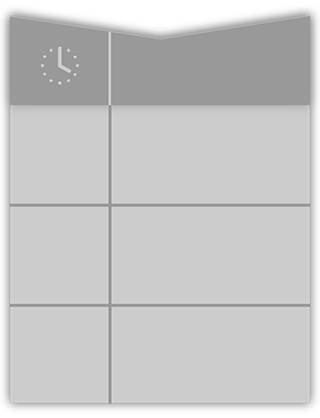
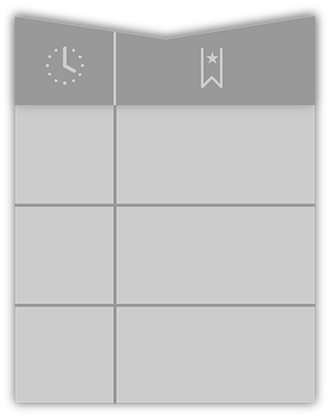
Animations on upper element

diff --git a/javafx/src/main/java/de/saxsys/projectiler/ProjectilerController.java b/javafx/src/main/java/de/saxsys/projectiler/ProjectilerController.java
@@ -3,13 +3,23 @@ package de.saxsys.projectiler;
 import java.net.URL;
 import java.util.ResourceBundle;
 
+import javafx.animation.Animation.Status;
+import javafx.animation.FadeTransitionBuilder;
+import javafx.animation.TranslateTransition;
+import javafx.animation.TranslateTransitionBuilder;
+import javafx.beans.value.ChangeListener;
+import javafx.beans.value.ObservableValue;
+import javafx.concurrent.WorkerStateEvent;
 import javafx.event.EventHandler;
 import javafx.fxml.FXML;
 import javafx.scene.control.Label;
 import javafx.scene.image.ImageView;
 import javafx.scene.input.MouseEvent;
+import javafx.util.Duration;
 
 public class ProjectilerController {
+
+    private static final int TRESHOLD = 60;
 
     @FXML
     private ResourceBundle resources;
@@ -26,20 +36,56 @@ public class ProjectilerController {
     @FXML
     private Label timeLabel;
 
+    private TranslateTransition transition;
+
     @FXML
     void initialize() {
         assert cardImage != null : "fx:id=\"cardImage\" was not injected: check your FXML file 'Projectiler.fxml'.";
         assert timeImage != null : "fx:id=\"timeImage\" was not injected: check your FXML file 'Projectiler.fxml'.";
         assert timeLabel != null : "fx:id=\"timeLabel\" was not injected: check your FXML file 'Projectiler.fxml'.";
+        transition =
+                TranslateTransitionBuilder.create().node(cardImage).rate(1.5).toY(cardImage.getLayoutY() + 120)
+                        .autoReverse(true).cycleCount(2).build();
+        createListeners();
+    }
 
+    private void createListeners() {
         cardImage.setOnMouseClicked(new EventHandler<MouseEvent>() {
 
             @Override
             public void handle(final MouseEvent arg0) {
-                new Thread(new ProjectilerTask()).start();
+                if (!(transition.getStatus() == Status.RUNNING)) {
+
+                    transition.currentTimeProperty().addListener(new ChangeListener<Duration>() {
+                        @Override
+                        public void changed(final ObservableValue<? extends Duration> arg0, final Duration arg1,
+                                final Duration arg2) {
+                            if (arg2.greaterThanOrEqualTo(transition.getTotalDuration().divide(2))) {
+                                transition.pause();
+                                transition.currentTimeProperty().removeListener(this);
+                                FadeTransitionBuilder.create().node(cardImage.getScene().getRoot()).toValue(0.8)
+                                        .build().play();
+                                cardImage.getScene().getRoot().setMouseTransparent(true);
+                            }
+                        }
+                    });
+                }
+                callProjectile();
+                transition.play();
+            }
+
+            private void callProjectile() {
+                final ProjectilerTask projectilerTask = new ProjectilerTask();
+                projectilerTask.setOnSucceeded(new EventHandler<WorkerStateEvent>() {
+                    @Override
+                    public void handle(final WorkerStateEvent t) {
+                        FadeTransitionBuilder.create().node(cardImage.getScene().getRoot()).toValue(1.0).build().play();
+                        transition.play();
+                        cardImage.getScene().getRoot().setMouseTransparent(false);
+                    }
+                });
+                new Thread(projectilerTask).start();
             }
         });
-
     }
-
 }

diff --git a/javafx/src/main/java/de/saxsys/projectiler/ProjectilerTask.java b/javafx/src/main/java/de/saxsys/projectiler/ProjectilerTask.java
@@ -8,17 +8,19 @@ import de.saxsys.projectiler.selenium.Settings;
 
 public class ProjectilerTask extends Task<Boolean> {
 
-	@Override
-	protected Boolean call() throws Exception {
-		try {
-			final Projectiler projectiler = new Projectiler(
-					new User("stefan.bley", Password.get()), new SeleniumCrawler(new Settings()));
-			System.out.println("Deine Projekte: " + projectiler.getProjectNames());
-		} catch (final Exception e) {
-			e.printStackTrace();
-			return false;
-		}
-		return true;
-	}
+    @Override
+    protected Boolean call() throws Exception {
+        try {
+            final Projectiler projectiler =
+                    new Projectiler(new User("alexander.casall", Password.get()), new SeleniumCrawler(new Settings()));
+            System.out.println("Deine Projekte: " + projectiler.getProjectNames());
+        } catch (final Exception e) {
+            e.printStackTrace();
+            this.succeeded();
+            return false;
+        }
+        this.succeeded();
+        return true;
+    }
 
 }

diff --git a/javafx/src/main/java/de/saxsys/projectiler/ClientStarter.java b/javafx/src/main/java/de/saxsys/projectiler/ClientStarter.java
@@ -17,7 +17,7 @@ public class ClientStarter extends Application {
         final URL rootUrl = ClientStarter.class.getResource("/Projectiler.fxml");
         final StackPane vBox = FXMLLoader.load(rootUrl);
 
-        final Scene scene = new Scene(vBox, 320, 568);
+        final Scene scene = new Scene(vBox);
         arg0.setScene(scene);
         arg0.initStyle(StageStyle.TRANSPARENT);
         scene.setFill(Color.TRANSPARENT);
